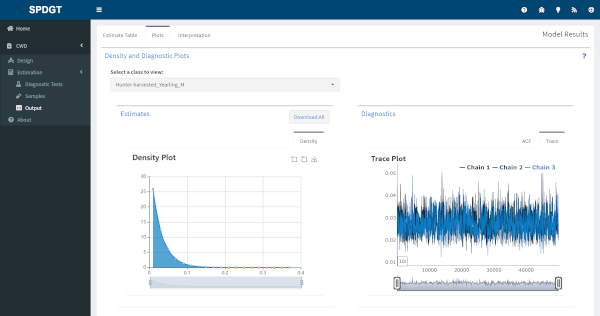
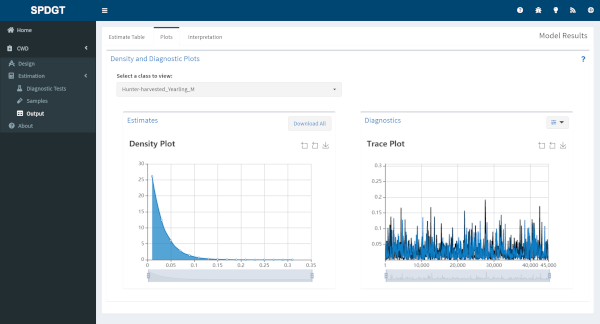
Update CWD after UI changes

diff --git a/cwd.html b/cwd.html
@@ -514,7 +514,8 @@ div.tocify {
 </div>
 <div id="output-plots" class="section level3">
 <h3>Output Plots</h3>
-<p>The plots page shows a posterior distribution plot for estimated latent prevalence of CWD by class, along with trace and autocorrelation plots for diagnosing model performance. Change the data displayed by using the dropdown below the plot to select a different class. Use the buttons and sliders near the various plots to zoom in to a finer scale or save a plot as an image file. You can also download all density plots in a single click using the <em>Download All</em> button.</p>
+<p>The plots page shows a posterior distribution plot for estimated latent prevalence of CWD by class, along with diagnostic plots for assessing model performance. By default a trace plot depicting every 100th iteration is displayed, but you can change the plotting interval or switch to an autocorrelation plot using the button at the top right of the Diagnostics section.</p>
+<p>Change the data displayed in both plots by using the dropdown above the plots to select a different class. Use the buttons and sliders within the plots to zoom in to a finer scale or save as an image file. You can also download density plots for all classes in a single click using the <em>Download All</em> button.</p>
 <p><img src = "www/weightedsurveil/cwd_output_plots.png"></p>
 <p><br></p>
 </div>
